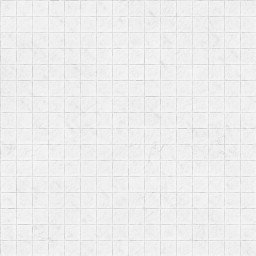
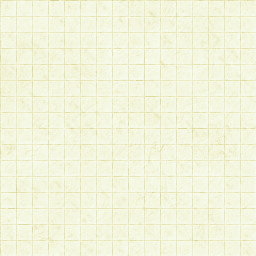
Fixed syntax colors, scrollbar.

Changed region(s): [[0.0, 0.0, 1.0, 1.0]]

diff --git a/.themes/winterriot/sass/partials/_syntax.scss b/.themes/winterriot/sass/partials/_syntax.scss
@@ -12,12 +12,12 @@
     @include box-shadow(lighten($base03, 2) -1px 0 inset);
     text-shadow: lighten($base02, 2) 0 -1px;
   } @else {
-    background: $base02 $syntax-bg !important;
-    border-right: 1px solid $pre-color !important;
+    background: $syntax-bg !important;
+    border-right: 1px solid $pre-border !important;
     @include box-shadow(lighten($base02, 2) -1px 0 inset);
     text-shadow: darken($base02, 10) 0 -1px;
   }
-  span { color: $base01 !important; }
+  span { color: $col-light-grey !important; }
   padding: .8em !important;
   @include border-radius(0);
 }
@@ -201,8 +201,8 @@ p, li {
   overflow-x: auto;
 }
 
-$solar-scroll-bg: rgba(#fff, .15);
-$solar-scroll-thumb: rgba(#fff, .2);
+$solar-scroll-bg: rgba($col-old-white, 1);
+$solar-scroll-thumb: darken(rgba($col-old-white, 1), 8%);
 @if $solarized == light {
   $solar-scroll-bg: rgba(#000, .15);
   $solar-scroll-thumb: rgba(#000, .15);
@@ -234,20 +234,21 @@ figure.code {
 
 .code-title {
   text-align: center;
-  font-size: 13px;
+  font-size: .75em;
   line-height: 2em;
   text-shadow: #cbcccc 0 1px 0;
-  color: #474747;
+  color: $col-dark-grey;
   font-weight: normal;
   margin-bottom: 0;
   @include border-top-radius(5px);
-  font-family: "Helvetica Neue", Arial, "Lucida Grande", "Lucida Sans Unicode", Lucida, sans-serif;
+  //font-family: "Helvetica Neue", Arial, "Lucida Grande", "Lucida Sans Unicode", Lucida, sans-serif;
+  font-family: $mono;
   //background: #aaaaaa image-url("code_bg.png") top repeat-x;
-  background-color: rgba(220, 220, 220, .3);
+  background-color: $col-old-white;
   border: 1px solid $pre-border;
   border-top-color: $pre-border;
-  border-left-color: #a5a5a5;
-  border-right-color: #a5a5a5;
+  border-left-color: $pre-border;
+  border-right-color: $pre-border;
   border-bottom: 0;
 }
 

diff --git a/sass/partials/_syntax.scss b/sass/partials/_syntax.scss
@@ -12,12 +12,12 @@
     @include box-shadow(lighten($base03, 2) -1px 0 inset);
     text-shadow: lighten($base02, 2) 0 -1px;
   } @else {
-    background: $base02 $syntax-bg !important;
-    border-right: 1px solid $pre-color !important;
+    background: $syntax-bg !important;
+    border-right: 1px solid $pre-border !important;
     @include box-shadow(lighten($base02, 2) -1px 0 inset);
     text-shadow: darken($base02, 10) 0 -1px;
   }
-  span { color: $base01 !important; }
+  span { color: $col-light-grey !important; }
   padding: .8em !important;
   @include border-radius(0);
 }
@@ -201,8 +201,8 @@ p, li {
   overflow-x: auto;
 }
 
-$solar-scroll-bg: rgba(#fff, .15);
-$solar-scroll-thumb: rgba(#fff, .2);
+$solar-scroll-bg: rgba($col-old-white, 1);
+$solar-scroll-thumb: darken(rgba($col-old-white, 1), 8%);
 @if $solarized == light {
   $solar-scroll-bg: rgba(#000, .15);
   $solar-scroll-thumb: rgba(#000, .15);
@@ -234,20 +234,21 @@ figure.code {
 
 .code-title {
   text-align: center;
-  font-size: 13px;
+  font-size: .75em;
   line-height: 2em;
   text-shadow: #cbcccc 0 1px 0;
-  color: #474747;
+  color: $col-dark-grey;
   font-weight: normal;
   margin-bottom: 0;
   @include border-top-radius(5px);
-  font-family: "Helvetica Neue", Arial, "Lucida Grande", "Lucida Sans Unicode", Lucida, sans-serif;
+  //font-family: "Helvetica Neue", Arial, "Lucida Grande", "Lucida Sans Unicode", Lucida, sans-serif;
+  font-family: $mono;
   //background: #aaaaaa image-url("code_bg.png") top repeat-x;
-  background-color: rgba(220, 220, 220, .3);
+  background-color: $col-old-white;
   border: 1px solid $pre-border;
   border-top-color: $pre-border;
-  border-left-color: #a5a5a5;
-  border-right-color: #a5a5a5;
+  border-left-color: $pre-border;
+  border-right-color: $pre-border;
   border-bottom: 0;
 }
 

diff --git a/.themes/winterriot/sass/custom/_colors.scss b/.themes/winterriot/sass/custom/_colors.scss
@@ -2,6 +2,18 @@
 // To give it a try, uncomment some of the lines below rebuild your blog, and see how it works.
 // If you need a handy color picker try http://hslpicker.com
 
+$col-superlight-grey: #eee;
+$col-light-grey: #aaa;
+$col-mid-grey: #666;
+$col-dark-grey: #333;
+
+$col-mid-red: #c00;
+
+$col-hot-pink: #fe57a1;
+
+$col-old-white: rgba(240, 229, 218, 1);
+$col-old-white-trans: rgba(240, 229, 218, .1);
+$col-old-blue: rgba(85, 102, 138, 1);
 $col-background: #ddd;
 // Antique White: #faebd7;
 // Mid Grey: #ddd;
@@ -53,18 +65,8 @@ $base1:           #93a1a1; //medium light gray
 
 /* Non highlighted code colors */
 //$pre-bg: $base03;
-$pre-border: lighten($base1, 5);
+//$pre-border: lighten($base1, 5);
+$pre-border: darken(rgba($col-old-white, 1), 5%);
 //$pre-color: $base1;
 
-$col-superlight-grey: #eee;
-$col-light-grey: #aaa;
-$col-mid-grey: #666;
-$col-dark-grey: #333;
 
-$col-mid-red: #c00;
-
-$col-hot-pink: #fe57a1;
-
-$col-old-white: rgba(240, 229, 218, 1);
-$col-old-white-trans: rgba(240, 229, 218, .1);
-$col-old-blue: rgba(85, 102, 138, 1);

diff --git a/sass/custom/_colors.scss b/sass/custom/_colors.scss
@@ -2,6 +2,18 @@
 // To give it a try, uncomment some of the lines below rebuild your blog, and see how it works.
 // If you need a handy color picker try http://hslpicker.com
 
+$col-superlight-grey: #eee;
+$col-light-grey: #aaa;
+$col-mid-grey: #666;
+$col-dark-grey: #333;
+
+$col-mid-red: #c00;
+
+$col-hot-pink: #fe57a1;
+
+$col-old-white: rgba(240, 229, 218, 1);
+$col-old-white-trans: rgba(240, 229, 218, .1);
+$col-old-blue: rgba(85, 102, 138, 1);
 $col-background: #ddd;
 // Antique White: #faebd7;
 // Mid Grey: #ddd;
@@ -53,18 +65,8 @@ $base1:           #93a1a1; //medium light gray
 
 /* Non highlighted code colors */
 //$pre-bg: $base03;
-$pre-border: lighten($base1, 5);
+//$pre-border: lighten($base1, 5);
+$pre-border: darken(rgba($col-old-white, 1), 5%);
 //$pre-color: $base1;
 
-$col-superlight-grey: #eee;
-$col-light-grey: #aaa;
-$col-mid-grey: #666;
-$col-dark-grey: #333;
 
-$col-mid-red: #c00;
-
-$col-hot-pink: #fe57a1;
-
-$col-old-white: rgba(240, 229, 218, 1);
-$col-old-white-trans: rgba(240, 229, 218, .1);
-$col-old-blue: rgba(85, 102, 138, 1);
